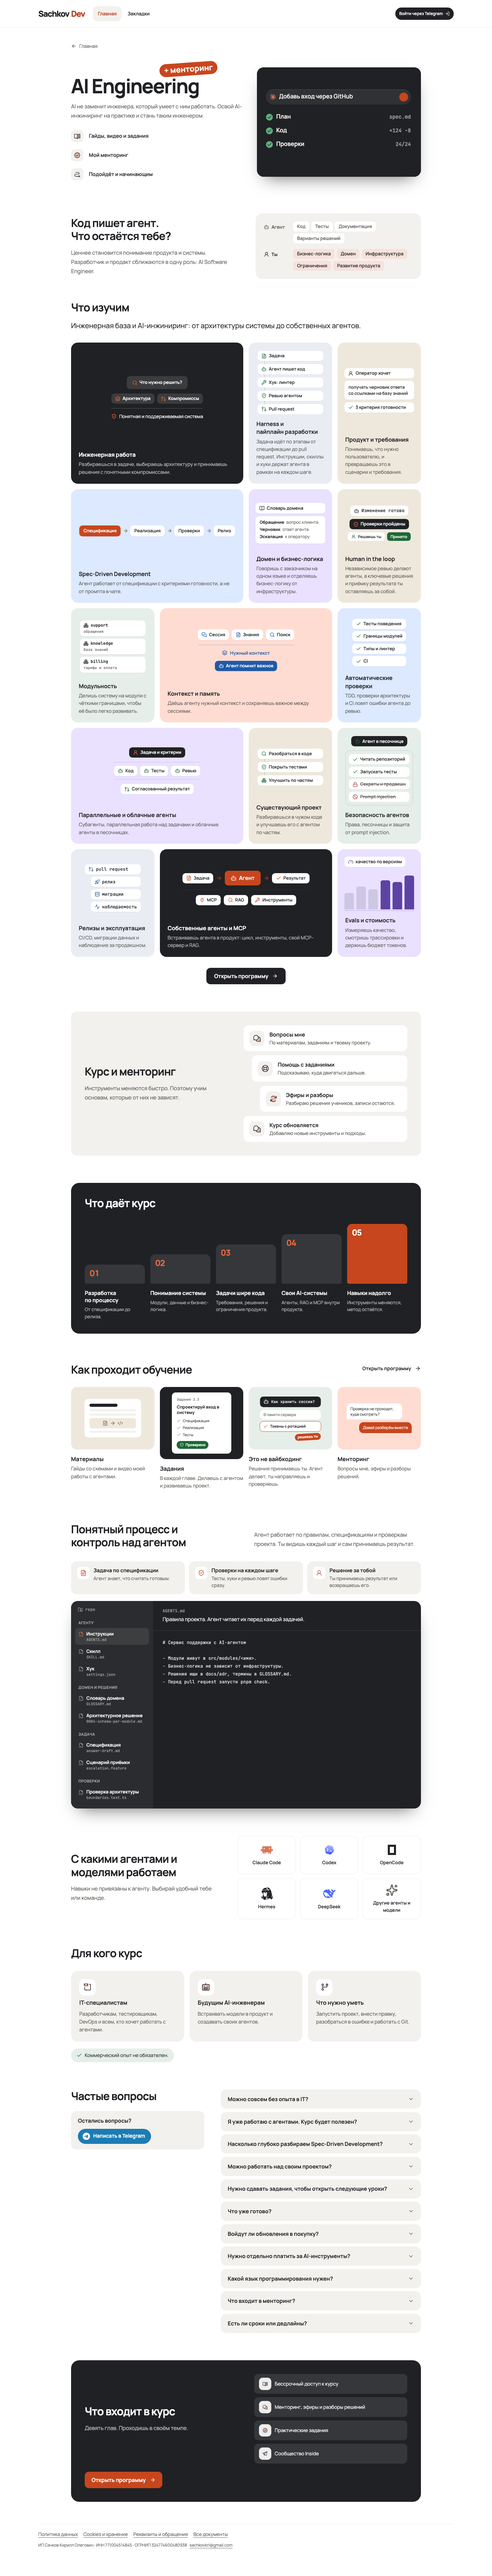
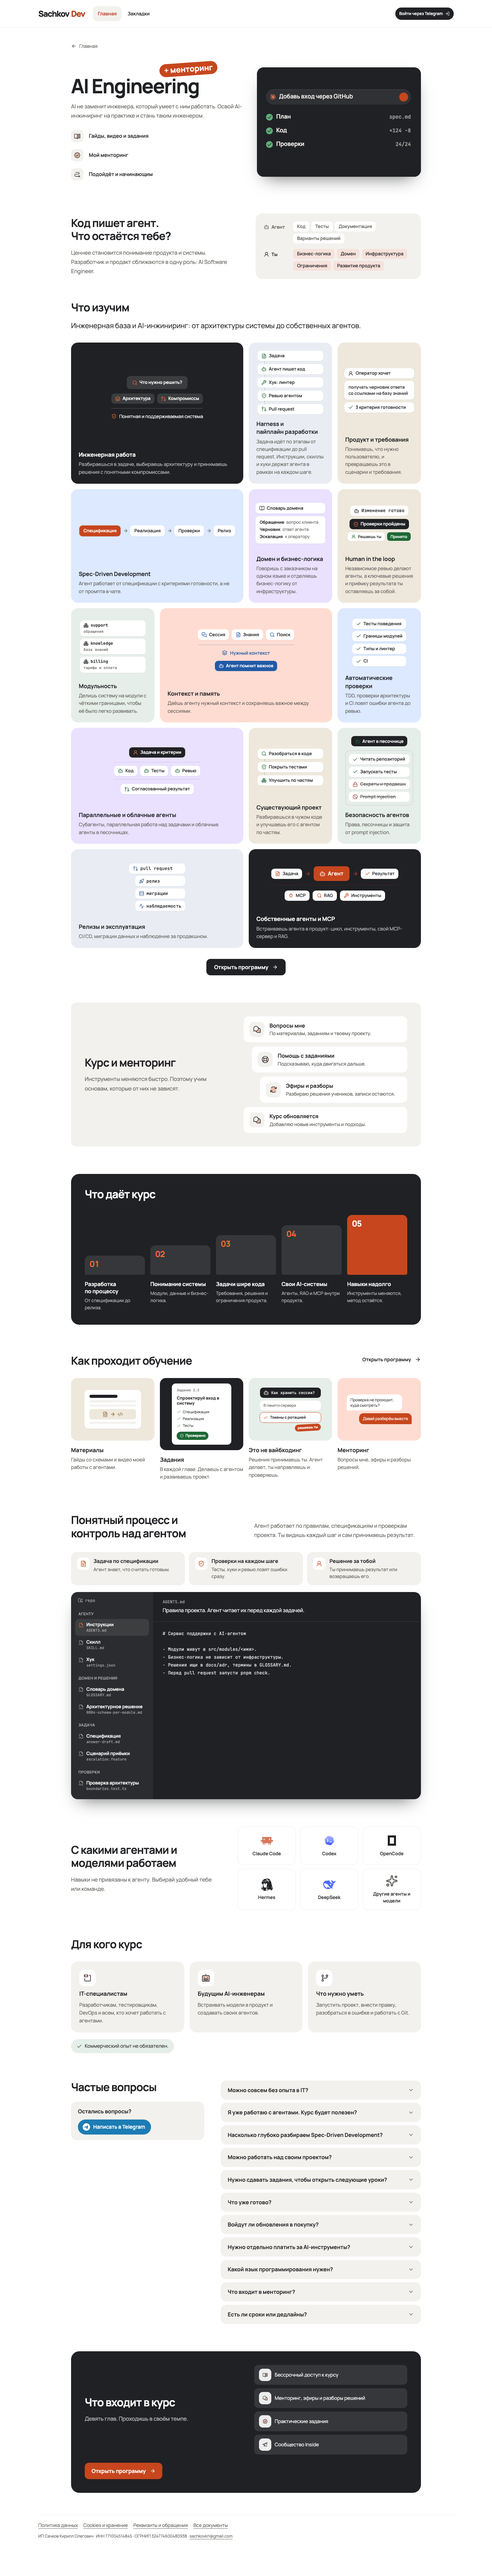
Лендинг AI Engineering: без плитки «Evals и стоимость», релизы на всю ширину ряда (#1909)

diff --git a/apps/web/src/_pages/library-discovery/model/course-topic-tiles.ts b/apps/web/src/_pages/library-discovery/model/course-topic-tiles.ts
@@ -57,9 +57,8 @@ const tiles: Readonly<Record<string, CourseTopicTile>> = {
   "Параллельные и облачные агенты": tile("team", "wide", "lavender"),
   "Существующий проект": tile("legacy", "narrow", "sand"),
   "Безопасность агентов": tile("security", "narrow", "good"),
-  "Релизы и эксплуатация": tile("release", "narrow", "example"),
+  "Релизы и эксплуатация": tile("release", "wide", "example"),
   "Собственные агенты и MCP": tile("agent", "wide", "ink"),
-  "Evals и стоимость": tile("evals", "narrow", "lavender"),
   // Темы описания, опубликованного до нового лендинга: страница не теряет картинки, пока текст
   // в Inside Content не обновлён.
   "AI-first разработка": tile("engineering", "wide", "ink"),

diff --git a/apps/web/src/_pages/library-discovery/ui/ai-engineering-course-view.stories.tsx b/apps/web/src/_pages/library-discovery/ui/ai-engineering-course-view.stories.tsx
@@ -123,7 +123,12 @@ export const PositionTopicsAndProcess: Story = {
       }),
     ).toBeVisible();
     const tiles = canvasElement.querySelectorAll(".aie-bento > li");
-    await expect(tiles.length).toBe(15);
+    const topics = aiEngineeringCoursePage.blocks.find(
+      (block) => block.id === "topics",
+    );
+    await expect(tiles.length).toBe(
+      topics?.kind === "cards" ? topics.items.length : -1,
+    );
     for (const tile of tiles)
       await expect(tile.querySelector(".aie-bento-art")).not.toBeNull();
 

diff --git a/apps/web/src/storybook/ai-engineering-course.fixtures.ts b/apps/web/src/storybook/ai-engineering-course.fixtures.ts
@@ -110,10 +110,6 @@ export const aiEngineeringCoursePage: ProductPage = {
           "Собственные агенты и MCP",
           "Встраиваешь агента в продукт: цикл, инструменты, свой MCP-сервер и RAG.",
         ),
-        card(
-          "Evals и стоимость",
-          "Измеряешь качество, смотришь трассировки и держишь бюджет токенов.",
-        ),
       ],
       note: "",
     },

diff --git a/docs/evidence/issue-1909/README.md b/docs/evidence/issue-1909/README.md
@@ -13,5 +13,7 @@ Storybook story `Pages/Product/Landing/AI Engineering`, production module
 
 Accepted proof: branch `prototype/ai-engineering-landing-v2`, commit `fa313ed5f`.
 
-Live route capture on the shared local stand is pending: on 2026-10-31 the stand reported
-`recovery` for another worktree's source (`ui-ux-sidebar`) with no reservation.
+Owner visual GO: 2026-11-01, in session, on these Storybook captures («всё остальное принимаю,
+можешь сливать и пушить»), after removing the «Evals и стоимость» topic. The live route was not
+captured: the shared local stand reported `recovery` for another worktree's source
+(`ui-ux-sidebar`) with no reservation, and the owner proceeded without repairing it.
